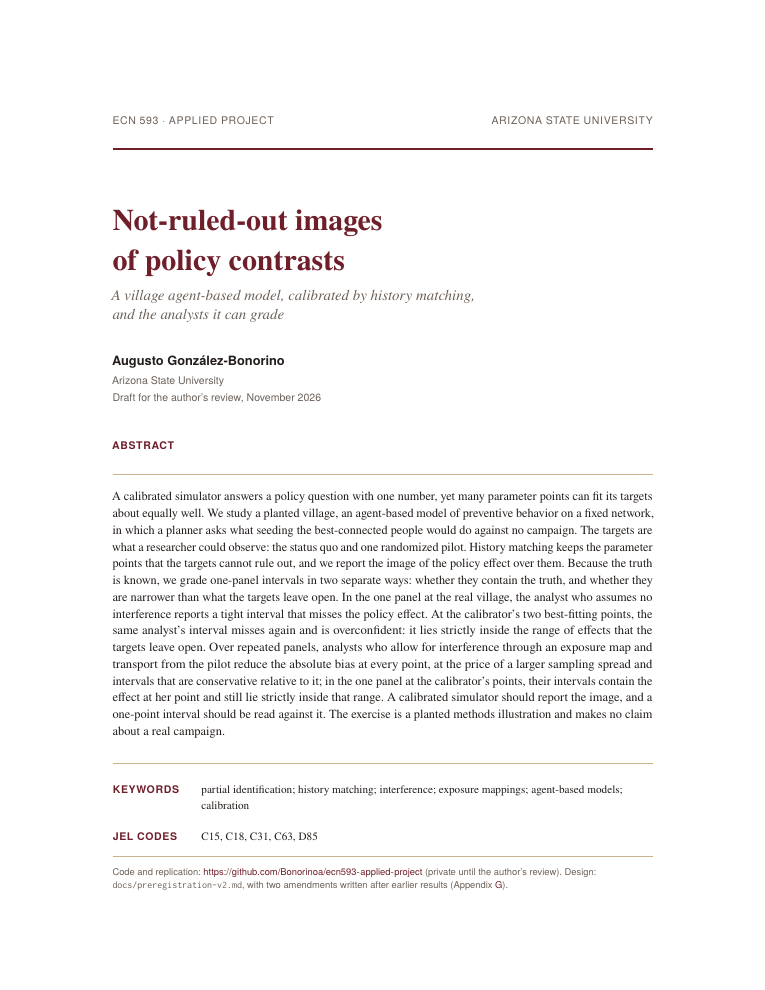
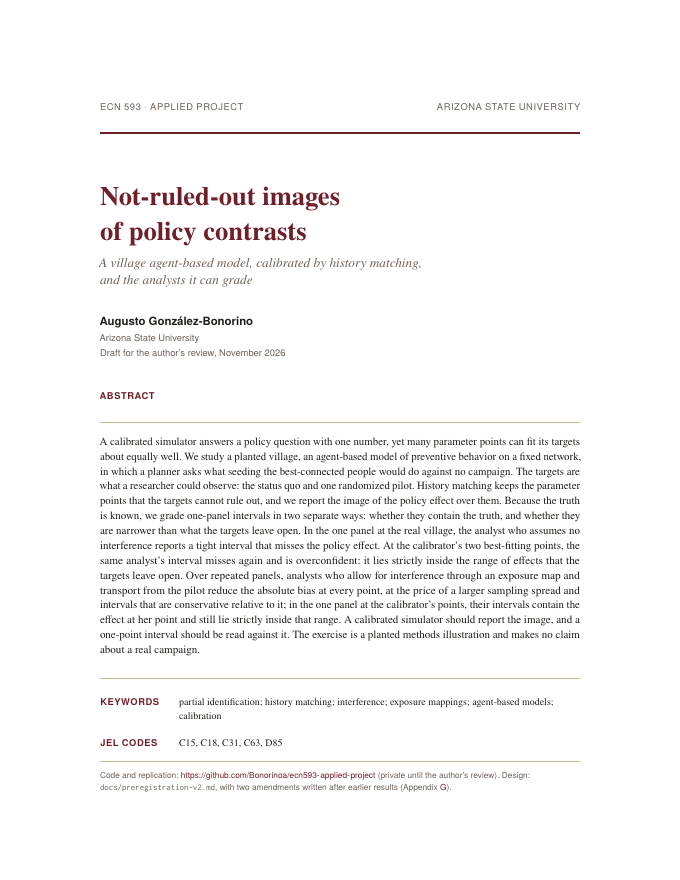
W3: erratum wording in estimand; per-group stripes in grouped tables; rebuilt PDF and shots

diff --git a/thesis/sections/07-results.tex b/thesis/sections/07-results.tex
@@ -106,19 +106,19 @@ at the village (b), and the verdict against the analyst's own image.}
 \toprule
  & \colhead{$\cstar$ (village)} & \colhead{min-I ($I=\MinI$)} & \colhead{median-I ($I=\MedI$)} \\
 \midrule
-\hiderowcolors\multicolumn{4}{l}{\textit{Policy effect $\theta_2$; image $\Theta_{\hm}=[\ThetaHmLo,\,\ThetaHmHi]$}} \\
-truth $\theta_2(c_0)$ & $\ThetaTwoStar$ & $\MinIThetaTwo$ & $\MedIThetaTwo$ \\
-A0 (Foil 1) & $[\StarPtFoilOneLo,\,\StarPtFoilOneHi]$ & $[\MinIFoilOneLo,\,\MinIFoilOneHi]$ & $[\MedIFoilOneLo,\,\MedIFoilOneHi]$ \\
-\quad (a) / (b) / verdict & \StarPtFoilOneCoversTruth{} / \StarPtFoilOneCoversPlanted{} / \StarPtFoilOneVerdict & \MinIFoilOneCoversTruth{} / \MinIFoilOneCoversPlanted{} / \MinIFoilOneVerdict & \MedIFoilOneCoversTruth{} / \MedIFoilOneCoversPlanted{} / \MedIFoilOneVerdict \\
+\hiderowcolors\rowcolor{white}\multicolumn{4}{l}{\textit{Policy effect $\theta_2$; image $\Theta_{\hm}=[\ThetaHmLo,\,\ThetaHmHi]$}} \\
+\rowcolor{white}truth $\theta_2(c_0)$ & $\ThetaTwoStar$ & $\MinIThetaTwo$ & $\MedIThetaTwo$ \\
+\rowcolor{white}A0 (Foil 1) & $[\StarPtFoilOneLo,\,\StarPtFoilOneHi]$ & $[\MinIFoilOneLo,\,\MinIFoilOneHi]$ & $[\MedIFoilOneLo,\,\MedIFoilOneHi]$ \\
+\rowcolor{white}\quad (a) / (b) / verdict & \StarPtFoilOneCoversTruth{} / \StarPtFoilOneCoversPlanted{} / \StarPtFoilOneVerdict & \MinIFoilOneCoversTruth{} / \MinIFoilOneCoversPlanted{} / \MinIFoilOneVerdict & \MedIFoilOneCoversTruth{} / \MedIFoilOneCoversPlanted{} / \MedIFoilOneVerdict \\
 \rowcolor{zebra}A1 & $[\TradeoffStarAOneOnePanelLo,\,\TradeoffStarAOneOnePanelHi]$ & $[\TradeoffMinIAOneOnePanelLo,\,\TradeoffMinIAOneOnePanelHi]$ & $[\TradeoffMedIAOneOnePanelLo,\,\TradeoffMedIAOneOnePanelHi]$ \\
 \rowcolor{zebra}\quad (a) / (b) / verdict & \TradeoffStarAOneOnePanelCoversTruth{} / \TradeoffStarAOneOnePanelCoversPlanted{} / \TradeoffStarAOneOnePanelVerdict & \TradeoffMinIAOneOnePanelCoversTruth{} / \TradeoffMinIAOneOnePanelCoversPlanted{} / \TradeoffMinIAOneOnePanelVerdict & \TradeoffMedIAOneOnePanelCoversTruth{} / \TradeoffMedIAOneOnePanelCoversPlanted{} / \TradeoffMedIAOneOnePanelVerdict \\
-A2 & $[\TradeoffStarATwoOnePanelLo,\,\TradeoffStarATwoOnePanelHi]$ & $[\TradeoffMinIATwoOnePanelLo,\,\TradeoffMinIATwoOnePanelHi]$ & $[\TradeoffMedIATwoOnePanelLo,\,\TradeoffMedIATwoOnePanelHi]$ \\
-\quad (a) / (b) / verdict & \TradeoffStarATwoOnePanelCoversTruth{} / \TradeoffStarATwoOnePanelCoversPlanted{} / \TradeoffStarATwoOnePanelVerdict & \TradeoffMinIATwoOnePanelCoversTruth{} / \TradeoffMinIATwoOnePanelCoversPlanted{} / \TradeoffMinIATwoOnePanelVerdict & \TradeoffMedIATwoOnePanelCoversTruth{} / \TradeoffMedIATwoOnePanelCoversPlanted{} / \TradeoffMedIATwoOnePanelVerdict \\
+\rowcolor{white}A2 & $[\TradeoffStarATwoOnePanelLo,\,\TradeoffStarATwoOnePanelHi]$ & $[\TradeoffMinIATwoOnePanelLo,\,\TradeoffMinIATwoOnePanelHi]$ & $[\TradeoffMedIATwoOnePanelLo,\,\TradeoffMedIATwoOnePanelHi]$ \\
+\rowcolor{white}\quad (a) / (b) / verdict & \TradeoffStarATwoOnePanelCoversTruth{} / \TradeoffStarATwoOnePanelCoversPlanted{} / \TradeoffStarATwoOnePanelVerdict & \TradeoffMinIATwoOnePanelCoversTruth{} / \TradeoffMinIATwoOnePanelCoversPlanted{} / \TradeoffMinIATwoOnePanelVerdict & \TradeoffMedIATwoOnePanelCoversTruth{} / \TradeoffMedIATwoOnePanelCoversPlanted{} / \TradeoffMedIATwoOnePanelVerdict \\
 \midrule
-\multicolumn{4}{l}{\textit{Spillover $\dspill$; image $\Theta_{\expset}=[\ThetaExpLo,\,\ThetaExpHi]$}} \\
-truth $\dspill(c_0)$ & $\SpillStar$ & $\MinISpill$ & $\MedISpill$ \\
-Foil 2 & $[\StarPtFoilTwoLo,\,\StarPtFoilTwoHi]$ & $[\MinIFoilTwoLo,\,\MinIFoilTwoHi]$ & $[\MedIFoilTwoLo,\,\MedIFoilTwoHi]$ \\
-\quad (a) / (b) / verdict & \StarPtFoilTwoCoversTruth{} / \StarPtFoilTwoCoversPlanted{} / \StarPtFoilTwoVerdict & \MinIFoilTwoCoversTruth{} / \MinIFoilTwoCoversPlanted{} / \MinIFoilTwoVerdict & \MedIFoilTwoCoversTruth{} / \MedIFoilTwoCoversPlanted{} / \MedIFoilTwoVerdict \\
+\rowcolor{white}\multicolumn{4}{l}{\textit{Spillover $\dspill$; image $\Theta_{\expset}=[\ThetaExpLo,\,\ThetaExpHi]$}} \\
+\rowcolor{white}truth $\dspill(c_0)$ & $\SpillStar$ & $\MinISpill$ & $\MedISpill$ \\
+\rowcolor{white}Foil 2 & $[\StarPtFoilTwoLo,\,\StarPtFoilTwoHi]$ & $[\MinIFoilTwoLo,\,\MinIFoilTwoHi]$ & $[\MedIFoilTwoLo,\,\MedIFoilTwoHi]$ \\
+\rowcolor{white}\quad (a) / (b) / verdict & \StarPtFoilTwoCoversTruth{} / \StarPtFoilTwoCoversPlanted{} / \StarPtFoilTwoVerdict & \MinIFoilTwoCoversTruth{} / \MinIFoilTwoCoversPlanted{} / \MinIFoilTwoVerdict & \MedIFoilTwoCoversTruth{} / \MedIFoilTwoCoversPlanted{} / \MedIFoilTwoVerdict \\
 \bottomrule
 \end{zebratabular}
 \tablenote{Intervals at nominal level $\ConfidencePct\%$ from the one panel at
@@ -198,20 +198,20 @@ point (amendment A2).}
  & \colhead{Bias} & \colhead{SD} & \colhead{RMSE} & \colhead{Mean SE} & \colhead{SE/SD}
  & \colhead{Containment [CP 95\%]} & \colhead{Width} & \colhead{Width/$\Theta_{\hm}$} \\
 \midrule
-\hiderowcolors\multicolumn{9}{l}{\textit{min-I point, $\theta_2=\MinIThetaTwo$}} \\
-A0 & $\TradeoffMinIAZeroBias$ & $\TradeoffMinIAZeroSD$ & $\TradeoffMinIAZeroRMSE$ & $\TradeoffMinIAZeroMeanSE$ & $\TradeoffMinIAZeroSEOverSD$ & $\TradeoffMinIAZeroCoverage$ [$\TradeoffMinIAZeroCoverageLo$, $\TradeoffMinIAZeroCoverageHi$] & $\TradeoffMinIAZeroMeanWidth$ & $\TradeoffMinIAZeroWidthRatio$ \\
+\hiderowcolors\rowcolor{white}\multicolumn{9}{l}{\textit{min-I point, $\theta_2=\MinIThetaTwo$}} \\
+\rowcolor{white}A0 & $\TradeoffMinIAZeroBias$ & $\TradeoffMinIAZeroSD$ & $\TradeoffMinIAZeroRMSE$ & $\TradeoffMinIAZeroMeanSE$ & $\TradeoffMinIAZeroSEOverSD$ & $\TradeoffMinIAZeroCoverage$ [$\TradeoffMinIAZeroCoverageLo$, $\TradeoffMinIAZeroCoverageHi$] & $\TradeoffMinIAZeroMeanWidth$ & $\TradeoffMinIAZeroWidthRatio$ \\
 \rowcolor{zebra}A1 & $\TradeoffMinIAOneBias$ & $\TradeoffMinIAOneSD$ & $\TradeoffMinIAOneRMSE$ & $\TradeoffMinIAOneMeanSE$ & $\TradeoffMinIAOneSEOverSD$ & $\TradeoffMinIAOneCoverage$ [$\TradeoffMinIAOneCoverageLo$, $\TradeoffMinIAOneCoverageHi$] & $\TradeoffMinIAOneMeanWidth$ & $\TradeoffMinIAOneWidthRatio$ \\
-A2 & $\TradeoffMinIATwoBias$ & $\TradeoffMinIATwoSD$ & $\TradeoffMinIATwoRMSE$ & $\TradeoffMinIATwoMeanSE$ & $\TradeoffMinIATwoSEOverSD$ & $\TradeoffMinIATwoCoverage$ [$\TradeoffMinIATwoCoverageLo$, $\TradeoffMinIATwoCoverageHi$] & $\TradeoffMinIATwoMeanWidth$ & $\TradeoffMinIATwoWidthRatio$ \\
+\rowcolor{white}A2 & $\TradeoffMinIATwoBias$ & $\TradeoffMinIATwoSD$ & $\TradeoffMinIATwoRMSE$ & $\TradeoffMinIATwoMeanSE$ & $\TradeoffMinIATwoSEOverSD$ & $\TradeoffMinIATwoCoverage$ [$\TradeoffMinIATwoCoverageLo$, $\TradeoffMinIATwoCoverageHi$] & $\TradeoffMinIATwoMeanWidth$ & $\TradeoffMinIATwoWidthRatio$ \\
 \midrule
-\multicolumn{9}{l}{\textit{median-I point, $\theta_2=\MedIThetaTwo$}} \\
-A0 & $\TradeoffMedIAZeroBias$ & $\TradeoffMedIAZeroSD$ & $\TradeoffMedIAZeroRMSE$ & $\TradeoffMedIAZeroMeanSE$ & $\TradeoffMedIAZeroSEOverSD$ & $\TradeoffMedIAZeroCoverage$ [$\TradeoffMedIAZeroCoverageLo$, $\TradeoffMedIAZeroCoverageHi$] & $\TradeoffMedIAZeroMeanWidth$ & $\TradeoffMedIAZeroWidthRatio$ \\
+\rowcolor{white}\multicolumn{9}{l}{\textit{median-I point, $\theta_2=\MedIThetaTwo$}} \\
+\rowcolor{white}A0 & $\TradeoffMedIAZeroBias$ & $\TradeoffMedIAZeroSD$ & $\TradeoffMedIAZeroRMSE$ & $\TradeoffMedIAZeroMeanSE$ & $\TradeoffMedIAZeroSEOverSD$ & $\TradeoffMedIAZeroCoverage$ [$\TradeoffMedIAZeroCoverageLo$, $\TradeoffMedIAZeroCoverageHi$] & $\TradeoffMedIAZeroMeanWidth$ & $\TradeoffMedIAZeroWidthRatio$ \\
 \rowcolor{zebra}A1 & $\TradeoffMedIAOneBias$ & $\TradeoffMedIAOneSD$ & $\TradeoffMedIAOneRMSE$ & $\TradeoffMedIAOneMeanSE$ & $\TradeoffMedIAOneSEOverSD$ & $\TradeoffMedIAOneCoverage$ [$\TradeoffMedIAOneCoverageLo$, $\TradeoffMedIAOneCoverageHi$] & $\TradeoffMedIAOneMeanWidth$ & $\TradeoffMedIAOneWidthRatio$ \\
-A2 & $\TradeoffMedIATwoBias$ & $\TradeoffMedIATwoSD$ & $\TradeoffMedIATwoRMSE$ & $\TradeoffMedIATwoMeanSE$ & $\TradeoffMedIATwoSEOverSD$ & $\TradeoffMedIATwoCoverage$ [$\TradeoffMedIATwoCoverageLo$, $\TradeoffMedIATwoCoverageHi$] & $\TradeoffMedIATwoMeanWidth$ & $\TradeoffMedIATwoWidthRatio$ \\
+\rowcolor{white}A2 & $\TradeoffMedIATwoBias$ & $\TradeoffMedIATwoSD$ & $\TradeoffMedIATwoRMSE$ & $\TradeoffMedIATwoMeanSE$ & $\TradeoffMedIATwoSEOverSD$ & $\TradeoffMedIATwoCoverage$ [$\TradeoffMedIATwoCoverageLo$, $\TradeoffMedIATwoCoverageHi$] & $\TradeoffMedIATwoMeanWidth$ & $\TradeoffMedIATwoWidthRatio$ \\
 \midrule
-\multicolumn{9}{l}{\textit{$\cstar$ (village), $\theta_2=\ThetaTwoStar$}} \\
-A0 & $\TradeoffStarAZeroBias$ & $\TradeoffStarAZeroSD$ & $\TradeoffStarAZeroRMSE$ & $\TradeoffStarAZeroMeanSE$ & $\TradeoffStarAZeroSEOverSD$ & $\TradeoffStarAZeroCoverage$ [$\TradeoffStarAZeroCoverageLo$, $\TradeoffStarAZeroCoverageHi$] & $\TradeoffStarAZeroMeanWidth$ & $\TradeoffStarAZeroWidthRatio$ \\
+\rowcolor{white}\multicolumn{9}{l}{\textit{$\cstar$ (village), $\theta_2=\ThetaTwoStar$}} \\
+\rowcolor{white}A0 & $\TradeoffStarAZeroBias$ & $\TradeoffStarAZeroSD$ & $\TradeoffStarAZeroRMSE$ & $\TradeoffStarAZeroMeanSE$ & $\TradeoffStarAZeroSEOverSD$ & $\TradeoffStarAZeroCoverage$ [$\TradeoffStarAZeroCoverageLo$, $\TradeoffStarAZeroCoverageHi$] & $\TradeoffStarAZeroMeanWidth$ & $\TradeoffStarAZeroWidthRatio$ \\
 \rowcolor{zebra}A1 & $\TradeoffStarAOneBias$ & $\TradeoffStarAOneSD$ & $\TradeoffStarAOneRMSE$ & $\TradeoffStarAOneMeanSE$ & $\TradeoffStarAOneSEOverSD$ & $\TradeoffStarAOneCoverage$ [$\TradeoffStarAOneCoverageLo$, $\TradeoffStarAOneCoverageHi$] & $\TradeoffStarAOneMeanWidth$ & $\TradeoffStarAOneWidthRatio$ \\
-A2 & $\TradeoffStarATwoBias$ & $\TradeoffStarATwoSD$ & $\TradeoffStarATwoRMSE$ & $\TradeoffStarATwoMeanSE$ & $\TradeoffStarATwoSEOverSD$ & $\TradeoffStarATwoCoverage$ [$\TradeoffStarATwoCoverageLo$, $\TradeoffStarATwoCoverageHi$] & $\TradeoffStarATwoMeanWidth$ & $\TradeoffStarATwoWidthRatio$ \\
+\rowcolor{white}A2 & $\TradeoffStarATwoBias$ & $\TradeoffStarATwoSD$ & $\TradeoffStarATwoRMSE$ & $\TradeoffStarATwoMeanSE$ & $\TradeoffStarATwoSEOverSD$ & $\TradeoffStarATwoCoverage$ [$\TradeoffStarATwoCoverageLo$, $\TradeoffStarATwoCoverageHi$] & $\TradeoffStarATwoMeanWidth$ & $\TradeoffStarATwoWidthRatio$ \\
 \bottomrule
 \end{zebratabular}
 \tablenote{Bias is the mean estimate minus $\theta_2(c_0)$. SD is the standard

diff --git a/thesis/sections/02-estimand.tex b/thesis/sections/02-estimand.tex
@@ -65,9 +65,8 @@ with probability
   =\binom{\NAgents}{\KSeeded}^{-1}.
 \end{equation}
 That probability is positive and negligible. The pilot realizes the policy with
-negligible probability; in practice it never does, and positivity holds for the
-policy vector only in this negligible sense. In practice, therefore, an estimate
-of $\theta_2$ from the pilot needs an exposure map and transport.
+negligible probability, so in practice an estimate of $\theta_2$ from it needs an
+exposure map and transport.
 
 What the pilot does reveal is $\theta_1$, the effect of the pilot's own design.
 The difference between the mean outcome in the pilot and the mean outcome in the

diff --git a/docs/cards/progress/W3.md b/docs/cards/progress/W3.md
@@ -2,3 +2,4 @@
 
 - 1. Oriented: read spine, prereg-v2 (A1, A2, erratum), writeup/main.tex, reviews/a2-code.md, thesis/README + cls + sample; numbers.tex == writeup/numbers.tex (454 macros incl. Tradeoff*). Crossref-checked 31 DOIs (scratch/w3_crossref.json).
 - 2. Wrote thesis/main.tex + sections/01-10, A-G, refs.bib (31 Crossref-checked entries). latexmk exit 0: 0 ^!, 0 undefined, 0 Overfull, 0 Float too large; 31 PDF pages (title + 30); main text pdf pp.2-23 (~21.5 pp), refs from pdf p.23, appendix pdf pp.25-31. Shots thesis/shots/w3-p{1,3,18,19}.png. 6 \MISSING macros (Young shares, design ratios from reviews/a2-code.md).
+- 3. Retry (attempt 2): erratum wording fix in 02-estimand (dropped 'in practice it never does' / positivity clause); grouped-table stripes fixed (\hiderowcolors leaked \rowcolor{zebra} into later rows; now explicit per-row colours, A1 striped in every group) in 07-results; rebuilt: exit 0, 0 ^!, 0 undefined, 0 Overfull, 0 Float too large, 31 pp; shots w3-p{1,3,16,18}.png (p19 dropped). Checked must-not-say list (reviews/a2-code.md item 7) by grep: no hits.
